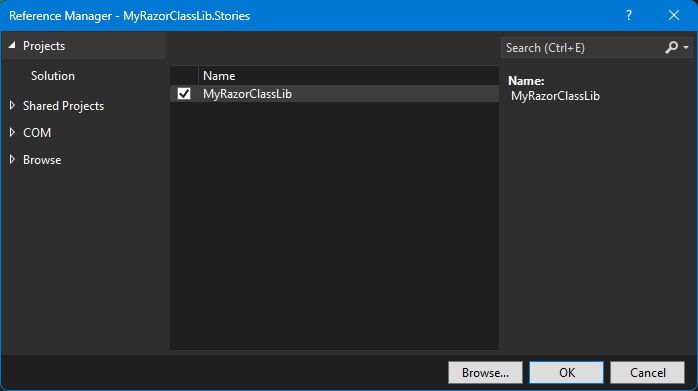
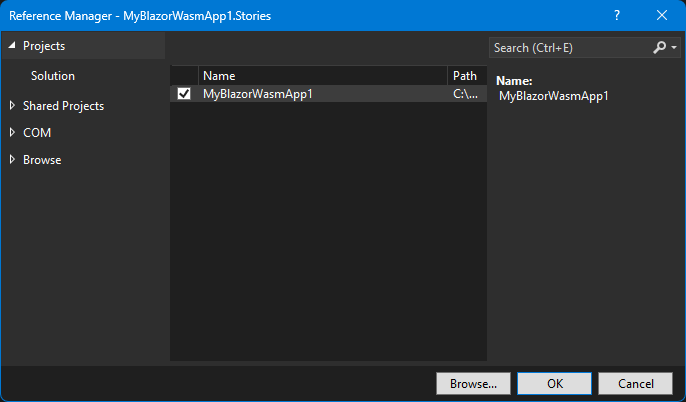
Update README.md
- the example scenario is referencing a Blazor app project directly.

diff --git a/README.md b/README.md
@@ -14,13 +14,13 @@ You can try it out from the live demonstration site at the following link: https
 
 ### Example scenario
 
-For the example scenario, you already have a Razor Class Library project, "MyRazorClassLib", that includes the "Button" component.
+For the example scenario, you already have a Blazor WebAssembly application project, "MyBlazorWasmApp1", that includes the "Button" component.
 
 ```
 📂 (working directory)
-    + 📄 MyRazorClassLib.sln
-    + 📂 MyRazorClassLib
-        + 📄 MyRazorClassLib.csproj
+    + 📄 MyBlazorWasmApp1.sln
+    + 📂 MyBlazorWasmApp1
+        + 📄 MyBlazorWasmApp1.csproj
         + ...
         + 📂 Components
             + 📄 Button.razor
@@ -39,72 +39,72 @@ dotnet new install BlazingStory.ProjectTemplates
 
 #### Step 1 - Create a new Blazing Story app project
 
-Open the solution file (.sln) with Visual Studio, and add a new "Blazing Story" project from the project templates. (In this example scenario, we named it "MyRazorClassLib.Stories")
+Open the solution file (.sln) with Visual Studio, and add a new "Blazing Story" project from the project templates. (In this example scenario, we named it "MyBlazorWasmApp1.Stories")
 
 ![](https://raw.githubusercontent.com/jsakamoto/BlazingStory/main/assets/readme-images/add-a-new-project.png)
 
 If you are working on dotnet CLI, you can do that with the following commands in a terminal.
 
 > **Note**  
-> Please remind again that this example scenario assumes that there is already a solution file (.sln) in the current directory with an existing Razor component library.
+> Please remind again that this example scenario assumes that there is already a solution file (.sln) in the current directory with an existing Blazor WebAssembly app project.
 
 ```shell
 # Create a new Blazing Story app
-dotnet new blazingstorywasm -n MyRazorClassLib.Stories
+dotnet new blazingstorywasm -n MyBlazorWasmApp1.Stories
 # Add the Blazing Story app project to the solution
-dotnet sln add ./MyRazorClassLib.Stories/
+dotnet sln add ./MyBlazorWasmApp1.Stories/
 ```
 
 The file layout will be the following tree.
 
 ```
 📂 (working directory)
-    + 📄 MyRazorClassLib.sln
-    + 📂 MyRazorClassLib
+    + 📄 MyBlazorWasmApp1.sln
+    + 📂 MyBlazorWasmApp1
         + ...
-    + 📂 MyRazorClassLib.Stories
-        + 📄 MyRazorClassLib.Stories.csproj✨ 👈 Add this
+    + 📂 MyBlazorWasmApp1.Stories
+        + 📄 MyBlazorWasmApp1.Stories.csproj✨ 👈 Add this
 ```
 
-#### Step 2 - Add a project reference of the class lib to the Blazing Story project
+#### Step 2 - Add a project reference of the Blazor Wasm app to the Blazing Story project
 
-Next, add a project reference in the Blazing Story App project "MyRazorClassLib.Stories" that refers to the Razor Class Library "MyRazorClassLib".
+Next, add a project reference in the Blazing Story App project "MyBlazorWasmApp1.Stories" that refers to the Blazor WebAssembly app project "MyBlazorWasmApp1".
 
 ![](https://raw.githubusercontent.com/jsakamoto/BlazingStory/main/assets/readme-images/add-a-project-reference.png)
 
 If you are working on dotnet CLI, you can do that with the following commands in a terminal.
 
 ```shell
-dotnet add ./MyRazorClassLib.Stories reference ./MyRazorClassLib
+dotnet add ./MyBlazorWasmApp1.Stories reference ./MyBlazorWasmApp1
 ```
 
 ```
 📂 (working directory)
-    + 📄 MyRazorClassLib.sln
-    + 📂 MyRazorClassLib <--- refers --+
-        + ...                          |
-    + 📂 MyRazorClassLib.Stories ------+
+    + 📄 MyBlazorWasmApp1.sln
+    + 📂 MyBlazorWasmApp1 <--- refers --+
+        + ...                           |
+    + 📂 MyBlazorWasmApp1.Stories ------+
         + ...
 ```
 
 #### Step 3 - Add a "stories" file
 
-Add a new "stories" file to the Blazing Story App project "MyRazorClassLib.Stories".
+Add a new "stories" file to the Blazing Story App project "MyBlazorWasmApp1.Stories".
 
 A "stories" file is a normal Razor Component file (.razor), but it is annotated with the `[Stories]` attribute and includes a markup of the `<Stories>` component. There is no restriction on file layout of "stories" files, but usually, we place it in the "Stories" subfolder.
 
 > **Warning**  
 > Currently, The file name of the "stories" files must end with ".stories.razor". This is a requirement of the naming convention for available the "Show code" feature in the "Docs" pages.
 
-In this example scenario, we are going to write a "stories" for the `Button` component lived in the "MyRazorClassLib" project, so we would add a new story file named "Button.stories.razor" in the "Stories" subfolder where is under the "MyRazorClassLib.Stories" project.
+In this example scenario, we are going to write a "stories" for the `Button` component lived in the "MyBlazorWasmApp1" project, so we would add a new story file named "Button.stories.razor" in the "Stories" subfolder where is under the "MyBlazorWasmApp1.Stories" project.
 
 ```
 📂 (working directory)
-    + 📄 MyRazorClassLib.sln
-    + 📂 MyRazorClassLib
+    + 📄 MyBlazorWasmApp1.sln
+    + 📂 MyBlazorWasmApp1
         + ...
-    + 📂 MyRazorClassLib.Stories
-        + 📄 MyRazorClassLib.Stories.csproj
+    + 📂 MyBlazorWasmApp1.Stories
+        + 📄 MyBlazorWasmApp1.Stories.csproj
         + 📂 Stories
             + 📄 Button.stories.razor✨ 👈 Add this
 ```
@@ -116,7 +116,7 @@ Implement a stories.
 The "Button.stories.razor" would be like the below.
 
 ```html
-@using MyRazorClassLib.Components
+@using MyBlazorWasmApp1.Components
 @attribute [Stories("Components/Button")]
 
 <Stories TComponent="Button">
@@ -132,12 +132,12 @@ The "Button.stories.razor" would be like the below.
 
 #### Step 5 - Run it!
 
-If you are working on Visual Studio, right-click the "MyRazorClassLib.Stories" project in the solution explorer to show the context menu, click the "Set as Startup Project" menu item, and hit the `Ctrl` + `F5` key.
+If you are working on Visual Studio, right-click the "MyBlazorWasmApp1.Stories" project in the solution explorer to show the context menu, click the "Set as Startup Project" menu item, and hit the `Ctrl` + `F5` key.
 
 If you are working on dotnet CLI, you can do that with the following commands in a terminal.
 
 ```shell
-dotnet run --project ./MyRazorClassLib.Stories
+dotnet run --project ./MyBlazorWasmApp1.Stories
 ```
 
 Then you will see the clone of the "Storybook" built on Blazor! 🎉
@@ -182,7 +182,7 @@ First, you can specify the layout for the application level via the `DefaultLayo
 </BlazingStoryApp>
 ```
 
-In the above case, the layout component  `DefaultLayout.razor` will be used when displaying every story.
+In the above case, the layout component `DefaultLayout.razor` will be used when displaying every story.
 
 ### Component (Stories) level layout
 
@@ -489,8 +489,8 @@ However, on the "Blazing Story" side, Blazor application developers can get a St
 
 ## 🤔 Frequently Asked Questions
 
-**Q1:** Can I add a project reference of a Blazor application project, not a Razor Class Library project, to a Blazing Story app project?  
-**A1:** Currently, you can't. I'm considering making it be able to do it in the future.
+**Q1:** Can I run a Blazing Story app as a Blazor Server app?  
+**A1:** Almost, yes, you can. However, running a Blazing Story app as a Blazor Server has yet to be fully supported. We are working on it, but it still needs to be completed.
 
 **Q2:** How can I write or configure addons?  
 **A2:** You can't do that for now because the addon architecture is not completed yet. I'll finish it in the future version.
